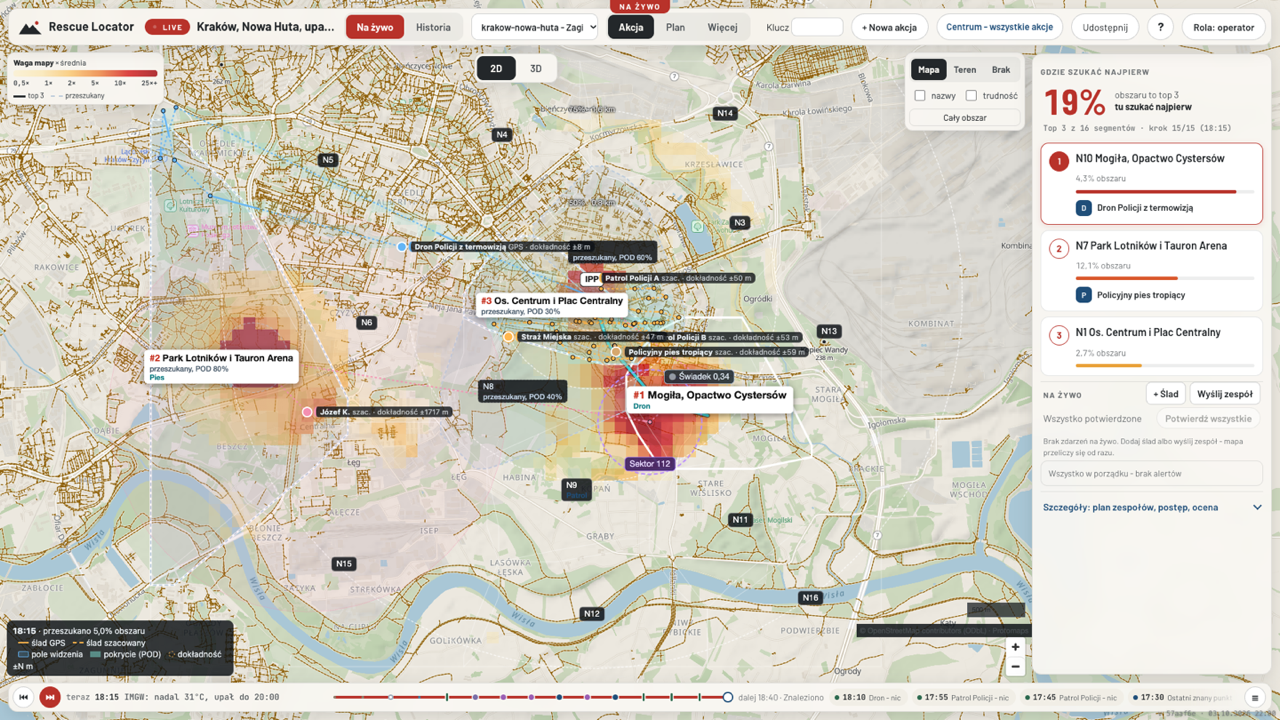
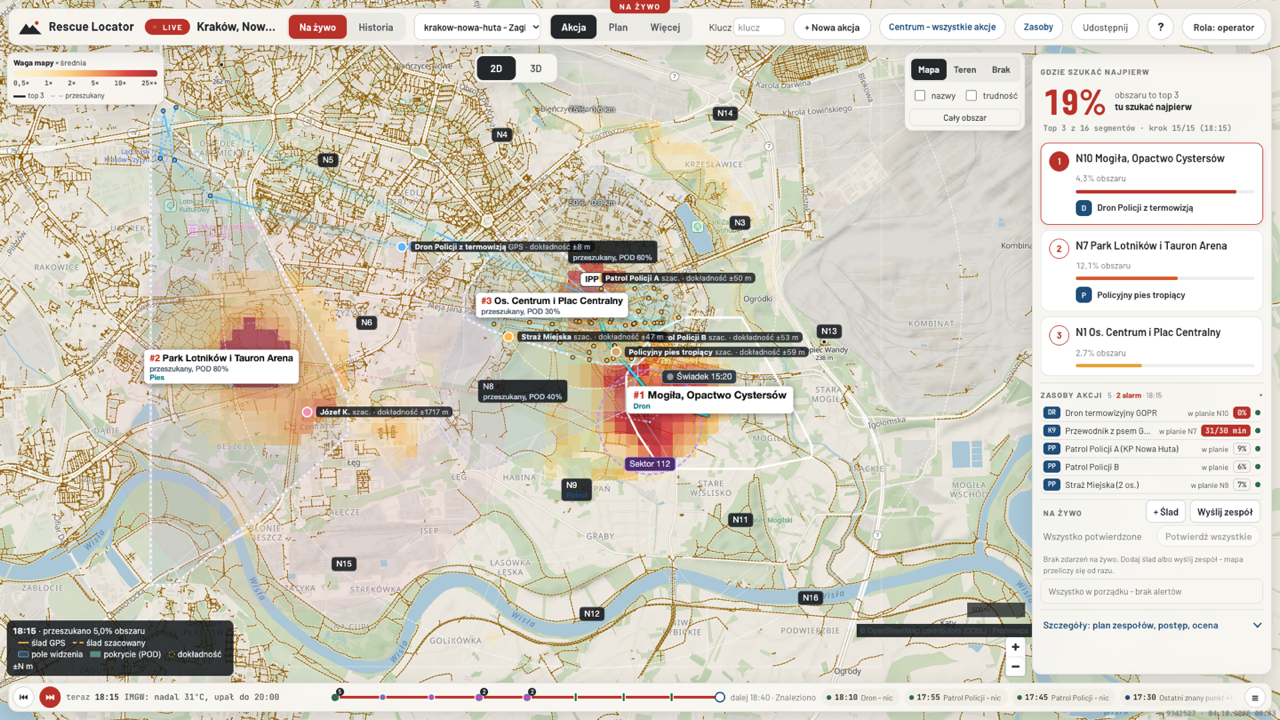
docs(rescue): pitch screenshots series 3 on 9342527/0354c39 - 01-08 refreshed, Centrum with Doradca collapsed, new 16-20 (zasoby, cwiczenia, porownanie, slad zdjecie, landing) and production issues in index.md

diff --git a/docs/rescue-locator/shots/index.md b/docs/rescue-locator/shots/index.md
@@ -1,26 +1,27 @@
 # Zrzuty ekranu - Rescue Locator (do slajdów i filmu)
 
-Produkcja https://rescue-locator.vercel.app, 2026-10-03 ok. 22:04-22:11. Wersja z /version.json: `57aaf6e` (01-09, 02, 11, 12, 13), w trakcie sesji wdrożono `664f619` ("fix(3d): derive timeline clock from selected minute") - na niej zrobione 10, 14, 15. Wersja widoczna też w stopce aplikacji (`v ...` w prawym dolnym rogu).
+Seria 3: produkcja https://rescue-locator.vercel.app, 2026-10-04 ok. 00:47-00:51. Wersja z /version.json: `9342527` (01-09: nowa oś czasu w doku 1x-30x z grupowanymi zdarzeniami, serwer Rust, płynne 2D/3D), w trakcie sesji wdrożono `0354c39` ("perf(rescue): 3D load bakes the terrain colour texture...") - na niej najpewniej zrobione 04-centrum-zwiniety, 16-20. Wersja widoczna też w stopce aplikacji (`v ...` w prawym dolnym rogu). Ujęcia 10-15 są z serii 2 (2026-10-03 ok. 22:04-22:37, wersje `57aaf6e` / `664f619` / `7559515`) i nie były powtarzane.
 
-Metoda: tylko odczyt. Headless Chrome (`--headless=new --enable-unsafe-swiftshader --ignore-gpu-blocklist`) sterowany przez CDP z Node, wszystkie żądania inne niż GET/HEAD/OPTIONS blokowane (Fetch.requestPaused), żadnych kliknięć zapisujących. Podpowiedź pierwszego uruchomienia wyłączona przez localStorage (`rescue-app-hint-operator`, `rescue-app-hint-ratownik`). Ekran 1920 x 1080, telefon 390 x 844 (x2). 2D: 25-35 s czekania; 3D: czekanie aż `body[data-state=ready]` (znika "Wczytywanie modelu terenu"), potem 10 s. Oś czasu i FPP w 3D przez `postMessage` w stronie. Pliki powyżej ~1,5 MB zmniejszone do 1280-1440 px szerokości. Numery funkcji jak w `../najmocniejsze-funkcje.md`.
+Metoda: tylko odczyt. Headless Chrome (`--headless=new --enable-unsafe-swiftshader --ignore-gpu-blocklist`) sterowany przez CDP z Node, wszystkie żądania inne niż GET/HEAD/OPTIONS blokowane (Fetch.requestPaused), żadnych kliknięć zapisujących (jedyne kliknięcie: "Zwiń" w panelu Doradca w Centrum, tylko widok). Podpowiedź pierwszego uruchomienia wyłączona przez localStorage (`rescue-app-hint-operator`, `rescue-app-hint-ratownik`). Ekran 1920 x 1080, telefon 390 x 844 (x2). 2D: 25 s czekania; 3D: czekanie aż `body[data-state=ready]` (w serii 3 gotowe po ok. 6 s), potem 10 s. Pliki powyżej ~1,5 MB zmniejszone (`sips -Z`) do 1280-1440 px szerokości. Numery funkcji jak w `../najmocniejsze-funkcje.md`.
 
 Skróty URL: `A` = `/app/?role=operator&mode=akcja`, `E3` = `/app/3d/?embed=scene&sc=zawrat&run=/api/run/zawrat?live=0`.
 
-## Ujęcia z poprzedniej serii (odświeżone)
+## Ujęcia podstawowe (seria 3, odświeżone)
 
-- `01-akcja-2d-zawrat-live.png` - operator, Akcja 2D, Zawrat **Na żywo** (LIVE): mapa cieplna, ślady zespołów z dokładnością, top 3 (S7 Żleb pod Zawratem #1, Śmigłowiec TOPR), "7% obszaru". Slajd "rozwiązanie" / funkcja 1, główny kadr filmu. URL: `A&view=2d&sc=zawrat&time=live`
-- `02-akcja-3d-zawrat.png` - operator, Akcja 3D, Zawrat Na żywo, 19:45: nocne niebo, teren, las, ślady i POA na zboczach, top 3 obok. Funkcja 6, slajd "design" / wow. 1440 px. URL: `A&view=3d&sc=zawrat&time=live`
-- `03a-akcja-2d-zawrat-1412-bts.png` - **Historia**, krok 8/17 (18:05, sektor BTS): top 3 S4 / S3 / S6, przeszukano 0%. Para "przed" do 03b. Funkcja 1-2. URL: `A&view=2d&sc=zawrat&time=hist&step=7`
-- `03b-akcja-2d-zawrat-znaleziono.png` - Historia, krok 17/17 (20:03, ZNALEZIONO): przeszukane sektory z POD, ślady wszystkich zespołów, #1 Żleb pod Zawratem na mapie. Para "po" - funkcja 2. URL: `A&view=2d&sc=zawrat&time=hist&step=16`
-- `04-centrum.png` - Centrum - wszystkie akcje: 17 akcji (1 LIVE: Połonina Wetlińska) z top 3 każdej, 25/25 wolnych zespołów, panel Doradca (awaria zapory w Solinie, wynik 0,97, prognoza fali). Funkcja 4. Mapa Polski w tle prawie pusta (zasłania ją Doradca). URL: `/app/centrum.html`
-- `05-walidacja.png` - Więcej > Walidacja: 66% vs 43% (góry), 91% vs 81% (woda), krzywa obszaru, "gdzie nie pomaga". Slajd "dowód / liczba wartości". Uwaga: w nagłówku nachodzą na siebie "HISTORIA" i "Na żywo" (drobny błąd UI). URL: `/app/?role=operator&mode=walidacja&sc=zawrat`
-- `06-akcja-2d-krakow-nowa-huta.png` - Kraków Nowa Huta Na żywo, senior z demencją w upale: mapa miasta, top 3 (N10 Mogiła, N7 Park Lotników, N1 Os. Centrum), 19%. Funkcja 5 (miasto, Smart City). 1280 px. URL: `A&view=2d&sc=krakow-nowa-huta&time=live`
+- `01-akcja-2d-zawrat-live.png` - operator, Akcja 2D, Zawrat **Na żywo**: mapa cieplna, ślady zespołów z dokładnością, top 3 (S7 Żleb pod Zawratem #1 - Śmigłowiec TOPR, S4, S3), "7% obszaru", zasoby akcji, nowy dok z osią czasu i zdarzeniami na dole. Slajd "rozwiązanie" / funkcja 1, główny kadr filmu. URL: `A&view=2d&sc=zawrat&time=live`
+- `02-akcja-3d-zawrat.png` - operator, Akcja 3D, Zawrat Na żywo, 19:45: noc, deszcz, teren, ślady i mapa cieplna na zboczach, panel Kino/Lider/Obrót/Spacer, top 3 obok, dok z osią czasu. Funkcja 6, slajd "design" / wow. 1440 px. Uwaga: etykiety #1-#3 w 3D nie zgadzają się z panelem (patrz niżej). URL: `A&view=3d&sc=zawrat&time=live`
+- `03a-akcja-2d-zawrat-1412-bts.png` - **Historia**, krok 8/17 (18:05, "CPR 112: ostatni sektor BTS 14:12"): panel top 3 S4 / S3 / S6, przeszukano 0,0%, dok z przyciskami odtwarzania i prędkością 1x. Para "przed" do 03b. Funkcja 1-2. Uwaga: etykiety na mapie (#1 Schronisko, #2 Wielki Staw, #3 Siklawa) nie zgadzają się z panelem. URL: `A&view=2d&sc=zawrat&time=hist&step=7`
+- `03b-akcja-2d-zawrat-znaleziono.png` - Historia, krok 17/17 (20:03, ZNALEZIONO: śmigłowiec TOPR): przeszukane sektory z POD, ślady wszystkich zespołów, #1 Żleb pod Zawratem, 2 alarmy w zasobach, przeszukano 3,6%. Para "po" - funkcja 2. URL: `A&view=2d&sc=zawrat&time=hist&step=16`
+- `04-centrum.png` - Centrum - wszystkie akcje: 18 akcji (1 LIVE: Połonina Wetlińska) z top 3 każdej, 31/31 wolnych zespołów, panel Doradca rozwinięty (awaria zapory w Solinie, wynik 0,97, dowody E1-E4, prognoza fali Zagórz-Sanok, zalecane działania). Funkcja 4. "Test nocny" już się nie pokazuje, więc wariantu przyciętego nie robiłem. Doradca zasłania dolną połowę mapy. URL: `/app/centrum.html`
+- `04-centrum-zwiniety.png` - to samo z Doradcą zwiniętym do jednej linii (przycisk "Zwiń", tylko widok): widać mapę Polski z punktami akcji (Międzyzdroje, Śniardwy, Moryń, Śnieżka, Kraków, Bieszczady). Funkcja 4. URL: `/app/centrum.html` + klik "Zwiń"
+- `05-walidacja.png` - Więcej > Walidacja: 66% vs 43% (góry, N=1000), 91% vs 81% (woda, N=600), krzywa obszaru, "gdzie nie pomaga". Slajd "dowód / liczba wartości". Uwaga: plakietka "HISTORIA · NAGRANIE" nachodzi na zakładki Teren/Monitoring, a przycisk "Rola: operator" jest ucięty przy prawej krawędzi. URL: `/app/?role=operator&mode=walidacja&sc=zawrat`
+- `06-akcja-2d-krakow-nowa-huta.png` - Kraków Nowa Huta Na żywo, senior z demencją w upale: mapa miasta, top 3 (N10 Mogiła, N7 Park Lotników, N1 Os. Centrum), 19%, świadek 15:20. Funkcja 5 (miasto, Smart City). 1280 px. URL: `A&view=2d&sc=krakow-nowa-huta&time=live`
 - `07-akcja-2d-sniardwy.png` - Śniardwy Na żywo, żeglarz w wodzie: plama dryfu, #1 W2 Toń na wschód od LKP, 17%. Funkcja 5 (woda). URL: `A&view=2d&sc=sniardwy&time=live`
-- `08a-ratownik-app.png` - telefon, rola Ratownik (`/app/?role=ratownik`): LIVE, mój sektor S3, duże przyciski meldunku. Funkcja 3. Strzałka "czekam na GPS" (headless bez GPS).
-- `08b-patrol-standalone.png` - telefon, samodzielna strona patrolu (`/web/patrol/?team=topr-a&run=/api/run/zawrat&me=49.2205,20.0105`): sektor S3, kierunek i 3,1 km, "łączność OK". Funkcja 3.
-- `09a-widzialem-karta.png` - telefon, strona obywatela `/web/seen/`: karta osoby zaginionej (fikcyjnej) i przycisk "Widziałem tę osobę". Funkcja 5 (miasto).
+- `08a-ratownik-app.png` - telefon, rola Ratownik: LIVE, Patrol TOPR A, mój sektor S3, duże przyciski meldunku. Funkcja 3. Strzałka "czekam na GPS" (headless bez GPS). URL: `/app/?role=ratownik`
+- `08b-patrol-standalone.png` - telefon, samodzielna strona patrolu: sektor S3, kierunek i 3,1 km na wschód, "łączność OK". Funkcja 3. URL: `/web/patrol/?team=topr-a&run=/api/run/zawrat&me=49.2205,20.0105`
+- `09a-widzialem-karta.png` - telefon, strona obywatela: karta osoby zaginionej (fikcyjnej, Józef K.) i przycisk "Widziałem tę osobę". Funkcja 5 (miasto). URL: `/web/seen/`
 
-## Nowe ujęcia: 3D i oś czasu
+## Ujęcia 3D i oś czasu (seria 2, bez zmian)
 
 - `10-3d-zawrat-dzien.png` - 3D, Zawrat 17:40 (krok 5): niebo i słońce wg godziny, mgła w dolinach, odbicia w stawach, mapa cieplna i top 3 na zboczach. Slajd "design" / wow, otwarcie filmu. 1440 px. URL: `E3&step=4`
 - `11-3d-zawrat-noc.png` - 3D, Zawrat 19:45 (krok 16, po zmroku), powtórzony 22:37 na wersji 7559515 (ciemniejsza noc z 202ec42): ciemny teren, deszcz, mapa cieplna i ślady czytelne. Para dzień/noc z 10. 1440 px. URL: `E3&step=15`
@@ -29,7 +30,28 @@ Skróty URL: `A` = `/app/?role=operator&mode=akcja`, `E3` = `/app/3d/?embed=scen
 - `14-2d-os-czasu.png` - operator 2D w trybie Historia, krok 14/17 (19:20): ślady GPS i szacowane z dokładnością (Patrol TOPR A ±29 m, Dron ±78 m), pole widzenia, pokrycie, legenda "przeszukano 0,3% obszaru". 2D pokazuje oś czasu (ślady), więc ujęcie zrobione. URL: `A&view=2d&sc=zawrat&time=hist&step=13`
 - `15-3d-kino.png` - tryb Kino (pasy kinowe, napis "17:46 Plan od żony: na Zawrat i z powrotem"), niski przelot nad doliną nocą. Nie ma parametru URL ani komunikatu postMessage dla Kina - włączony przyciskiem "Kino" przez `document.getElementById('btn-cine').click()`; to tylko ruch kamery, bez zapisu (i tak wszystko poza GET było blokowane). Kadr ok. 14 s po starcie. URL: `E3&step=4` + klik Kino
 
+## Nowe ujęcia (seria 3)
+
+- `16-zasoby.png` - Zasoby - zespoły i sprzęt, akcja Zawrat 19:45: karty jednostek (bateria drona, praca psa, służba załogi, przeglądy) i otwarty **dziennik jednostki** Patrol TOPR A (źródła danych, 16 wpisów: przydziały, pozycje GPS, przeszukanie S3). Funkcja "Na żywo, Zasoby, dziennik". Dziennik otwarty parametrem `actor` (to samo co kliknięcie karty, tylko odczyt). URL: `/app/zasoby.html?sc=zawrat&actor=topr-a`
+- `17-cwiczenia.png` - Ćwiczenia, ekran startowy "Przejmij akcję w trakcie": 3 ćwiczenia (Połonina Wetlińska, Morskie Oko, Śniardwy) z godziną przejęcia i liczbą zespołów. Slajd "trening / dalszy rozwój". Odprawa nie zrobiona - przycisk "Odprawa" wysyła POST `/api/exercise/start` (zapis). URL: `/app/cwiczenia.html`
+- `18-porownanie.png` - Co zmienia jedna relacja: ta sama akcja na Zawracie o 19:22 bez relacji i z relacją turystki (zakosy niebieskiego szlaku 14:35): top 3 zmienia się z S4 / S7 / S3 (7,0% obszaru) na S7 / S6 / S9 (5,4%), z oznaczeniami "był 2.", "nowy, był 5./8.". Funkcja 1-2 (każda poszlaka zmienia mapę). Strona próbuje POST `/api/run` (zablokowany) i pokazuje mapy z gotowych danych `porownanie-data/`; relacja włącza się sama po 1,5 s. URL: `/app/porownanie.html`
+- `19-slad-zdjecie.png` - Ślad: zdjęcie - gdzie zrobiono to zdjęcie (desktop): syntetyczne zdjęcie z wykrytą linią horyzontu, mapa prawdopodobieństwa miejsca, 5 kandydatów i stożek widoku, wynik 1/3600, 61 m, 1°, mediana 40 m. Slajd "AI / poszlaki". URL: `/web/photo/`
+- `19b-slad-zdjecie-telefon.png` - to samo na telefonie (390 x 844 x2), górna część: zdjęcie, przełącznik bez GPS / z GPS (EXIF), początek mapy. URL: `/web/photo/`
+- `20-landing.png` - strona produktu, wersja "Dla zespołów SAR": "Gdzie szukać najpierw - w pierwszych godzinach akcji", kadr 3D Zawratu, problem pierwszych godzin, karty funkcji "działa w pokazie". Slajd tytułowy / zamknięcie. URL: `/landing?dla=sar` (307 na `/app/landing/?dla=sar`)
+
 ## Pominięte
 
 - Formularz "Widziałem" - otwiera się dopiero po kliknięciu przycisku (brak parametru URL), więc go nie robiłem.
-- Nic z nowej listy nie pominięte. Do powtórki ewentualnie: `13-3d-fpp.png` (czerwona ziemia w FPP) i `11-3d-zawrat-noc.png`, gdyby noc miała być ciemniejsza.
+- Odprawa i gra w Ćwiczeniach - start sesji to POST `/api/exercise/start` (zapis), zablokowany; zrobiony tylko ekran listy (17).
+- `04-centrum-crop.png` - niepotrzebny, "Test nocny" już nie występuje.
+- 10-15 nie powtarzane w serii 3 (opisy wyżej bez zmian).
+- `porownanie-przed.jpg`, `porownanie-po.jpg` - starsze pliki w tym katalogu, nie z tej serii, zostawione bez zmian.
+
+## Co wyglądało na błąd na produkcji (seria 3)
+
+- Akcja 2D, Historia krok 8 (`A&view=2d&sc=zawrat&time=hist&step=7`): etykiety top 3 na mapie (#1 Schronisko i Przedni Staw, #2 Wielki Staw, #3 Siklawa / Roztoka górna) inne niż panel "Gdzie szukać najpierw" (S4 Wielki Staw, S3 Schronisko, S6 Szlak niebieski).
+- Akcja 3D Na żywo (`A&view=3d&sc=zawrat&time=live`): etykiety w 3D #1 Wielki Staw, #2 Schronisko i Przedni Staw, #3 Szlak niebieski, a panel pokazuje S7 Żleb pod Zawratem, S4, S3 (2D na żywo jest zgodne z panelem).
+- Centrum (`/app/centrum.html`): klik "Zwiń" w Doradcy rzuca `TypeError: Cannot set properties of null (setting 'onclick')` w `advRender` (centrum.js:413, `el.querySelector(".advllm")` nie istnieje w widoku zwiniętym). Panel się zwija, ale błąd w konsoli.
+- Walidacja (`/app/?role=operator&mode=walidacja&sc=zawrat`): plakietka "HISTORIA · NAGRANIE" nachodzi na zakładki, "Rola: operator" ucięta przy 1920 px.
+- Zasoby akcji w panelu operatora dla Krakowa i Śniardw pokazują jednostki GOPR / "Policja Gryfino" / "Nurkowie PSP (SGRW Szczecin)" - nazwy nie pasują do miejsca akcji (dane demo).
+- `/favicon.ico` 404 na `/web/patrol/`, `/web/seen/`, `/app/landing/` (kosmetyka).
